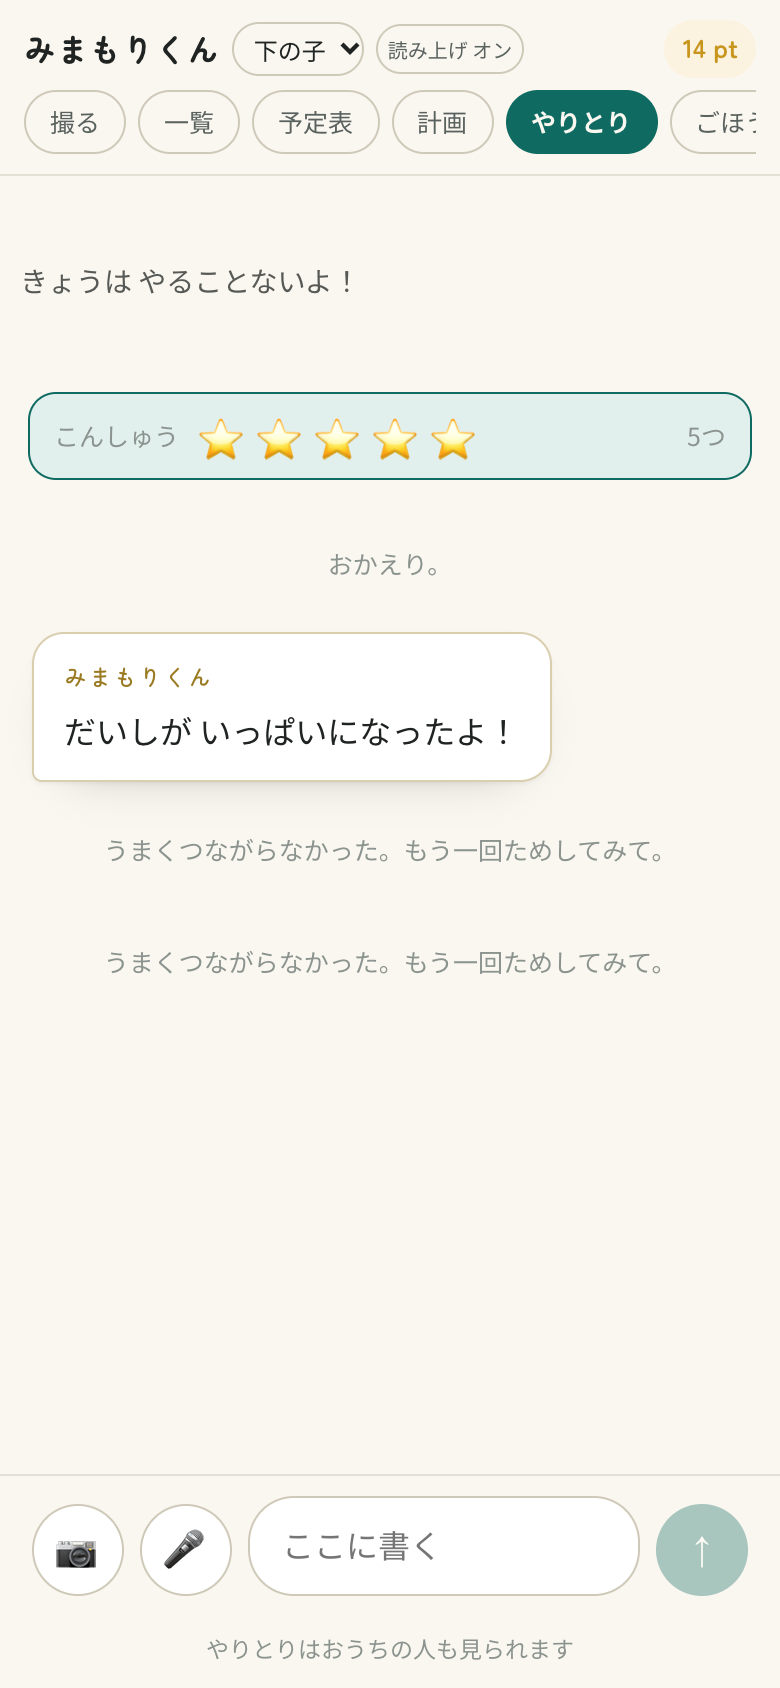
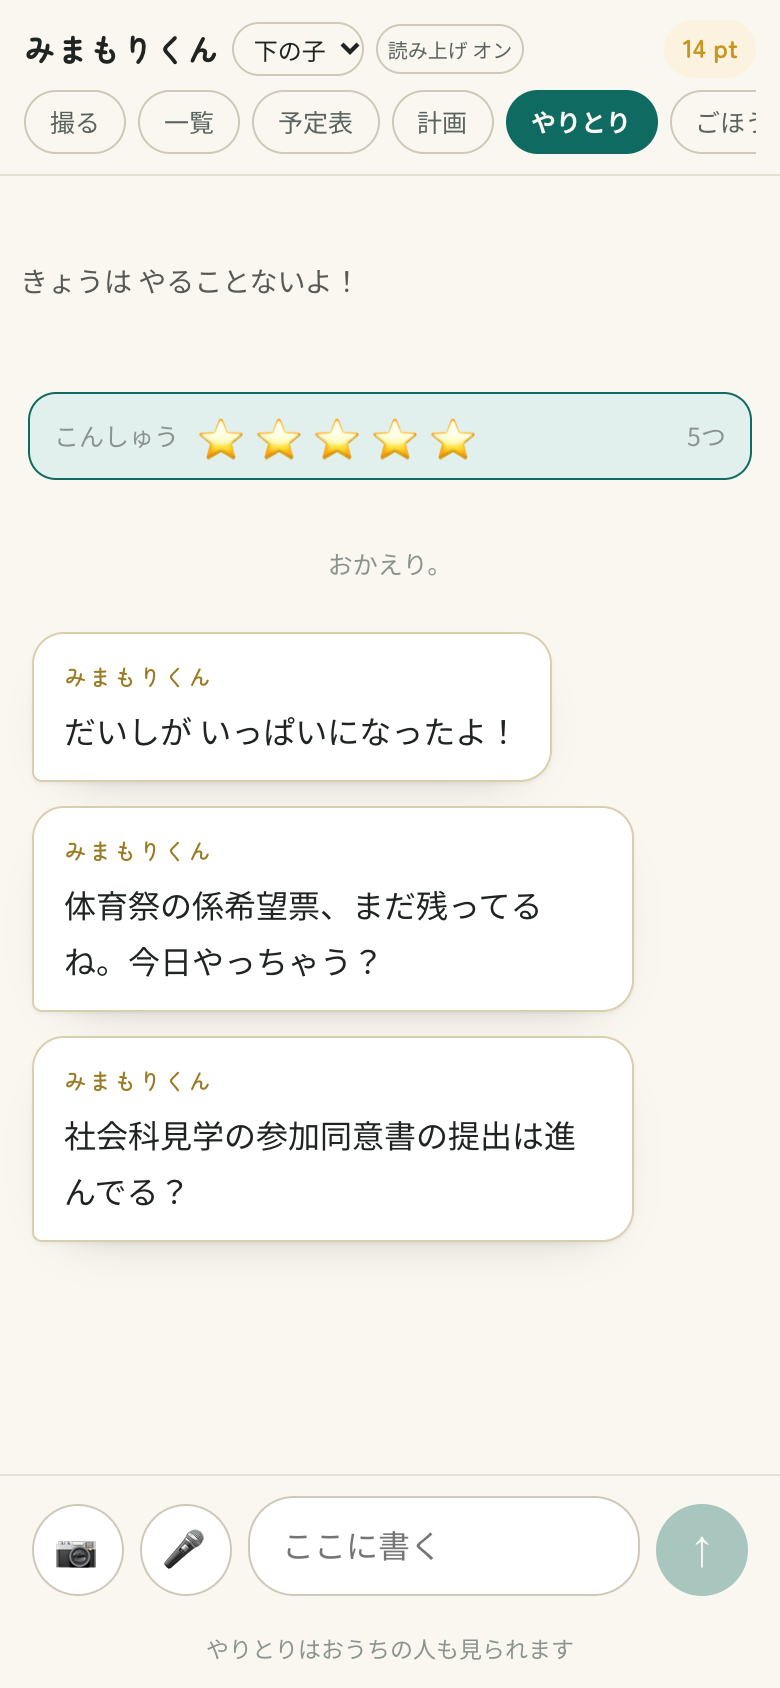
design: /kid を会話がつながった状態で撮り直す

Changed region(s): [[0.0923, 0.4929, 0.7385, 0.7393], [0.7692, 0.5545, 0.8308, 0.5853], [0.7692, 0.4929, 0.8308, 0.5237]]

diff --git a/design/screenshots/before/README.md b/design/screenshots/before/README.md
@@ -15,4 +15,8 @@
 | `board-pc.png` / `board-sp.png` | `/board` 遅れ・今日・明日・今週・予定が並んだ状態 |
 | `board-empty-pc.png` / `board-empty-sp.png` | `/board` 全部終えたあと（「抜けはありません」） |
 
-**注意：`/kid` の会話欄の「うまくつながらなかった」は本来の表示ではない。** 撮影した環境の Gemini の API キーが無効で、会話が Gemini につながらなかった。カード・台紙・ポイントは正しく出ている。会話を含めて見直すときは、キーを直して撮り直す。
+`/kid` の会話は Gemini（AI Studio のキー）につないで撮った。返事は毎回変わる。
+
+**撮っていて気づいたこと（UX 見直しで一緒に見てほしい）**
+- `/kid`（下の子）の相棒が「体育祭の係希望票」に触れている。デモのデータでは、これは上の子のタスク。`get_my_tasks` は子どもで絞っているので、モデルが別の子の名前でツールを呼んだか、別の子のものを話題にした可能性がある
+- `/kid` を開くと、相棒の話しかけが2つ続けて出る
